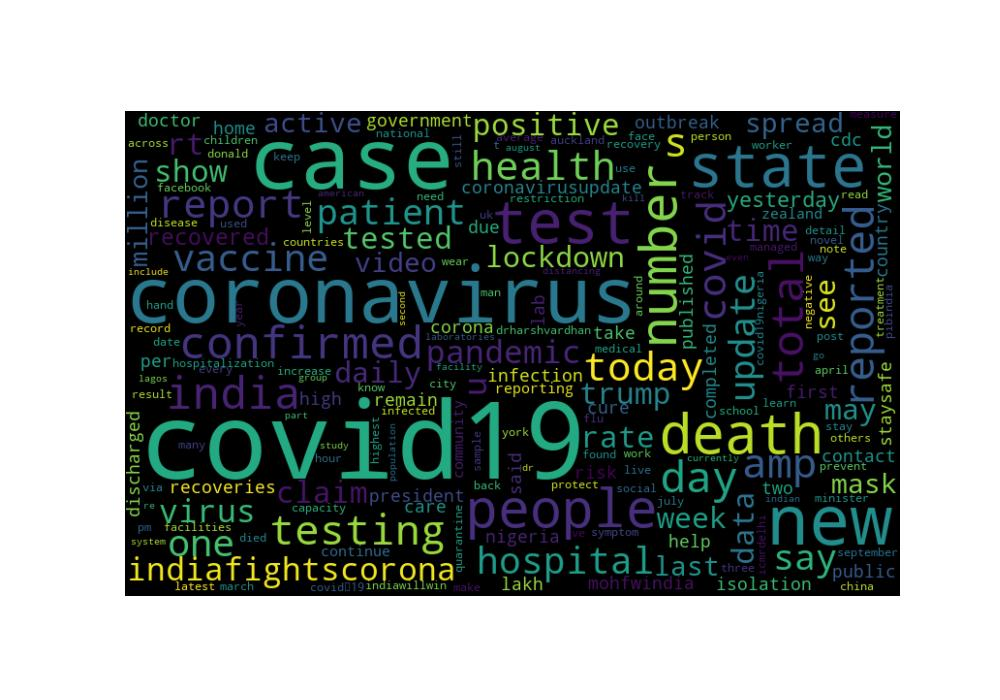
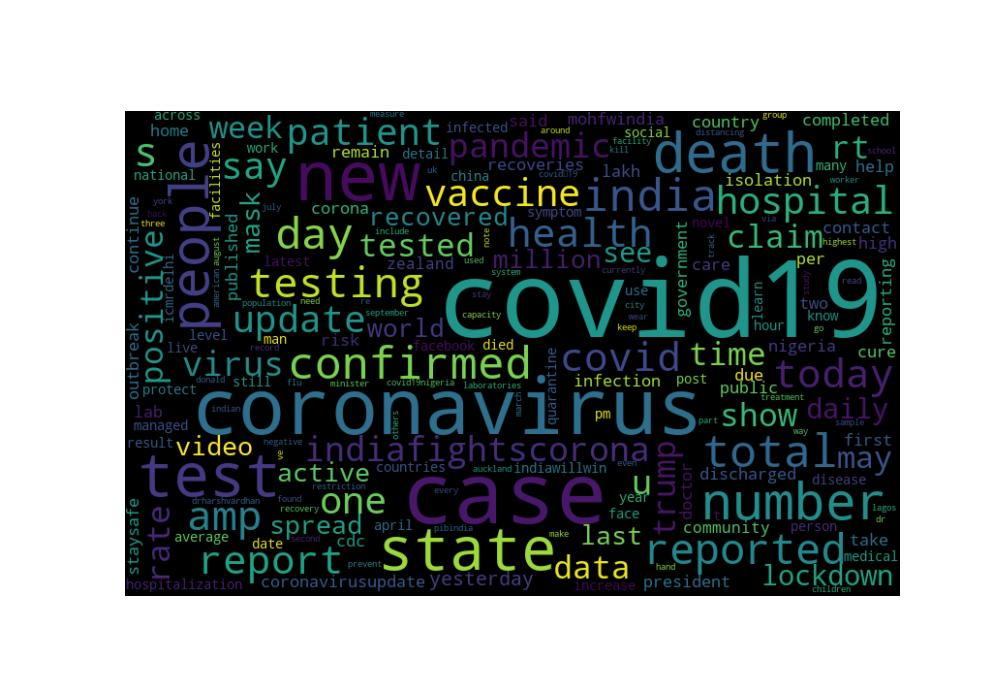
adding images NOT WORKING

Changed region(s): [[0.124, 0.15, 0.899, 0.87]]

diff --git a/Flask_App/templates/analysis.html b/Flask_App/templates/analysis.html
@@ -111,6 +111,22 @@
 				{%endfor%}
 			</table>
 		</div>
+		<div class='container-fluid'>
+			<table>
+				<tr style="font-weight:bold">
+					<td width="25%">Real Word Cloud</td>
+					<td width="25%">Fake Word Cloud</td>
+					<td width="25%">Confusion Matrix</td>
+					<td width="25%">Word Frequency</td>
+				</tr>
+				<tr>
+					<td><img src="/static/img_realCloud.jpg"></td>
+					<td><img src="/static/img_fakeCloud.jpg"></td>
+					<td><img src="/static/img_confMatrix.jpg"></td>
+					<td><img src="/static/img_freqWords.jpg"></td>
+				</tr>
+			</table>
+		</div>
 	</div>
 </body>
 

diff --git a/Flask_App/flaskapp.py b/Flask_App/flaskapp.py
@@ -1,8 +1,10 @@
 # imports
 from re import search
 from flask import Flask, render_template, request, redirect, url_for, session
+#from Flask_App.machLearn import fakeCloud, realCloud
 import tweepy_wrapper
 import machLearn
+import os
 
 app = Flask(__name__)
 app.secret_key = 'struthSocialFakeNewsDetection'
@@ -58,6 +60,10 @@ def analysis():
     temparr = machLearn.Main(array)
     passedTweets = temparr
     print(temparr)
+    # fakeCloud = os.path.join(app.config['UPLOAD_FOLDER'], 'img_fakeCloud.jpg')
+    # realCloud = os.path.join(app.config['UPLOAD_FOLDER'], 'img_realCloud.jpg')
+    # confMatrix = os.path.join(app.config['UPLOAD_FOLDER'], 'img_confMatrix.jpg')
+    # freqWords = os.path.join(app.config['UPLOAD_FOLDER'], 'img_freqWords.jpg')
     return render_template('analysis.html', passedTweets = passedTweets)
 
 # Running app, debug mode can be changed here
